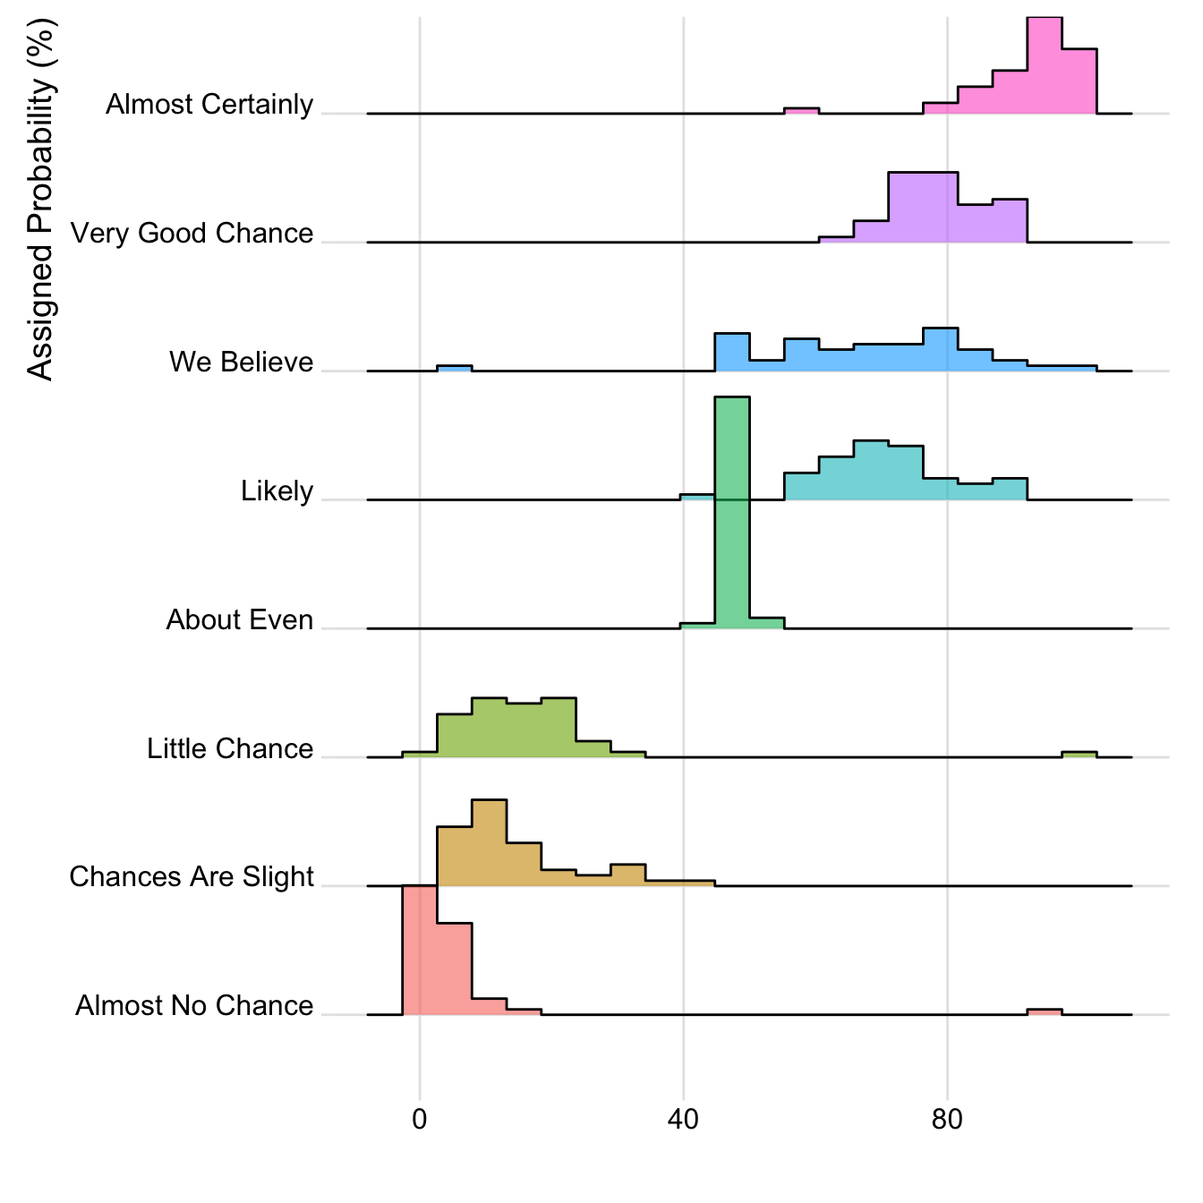
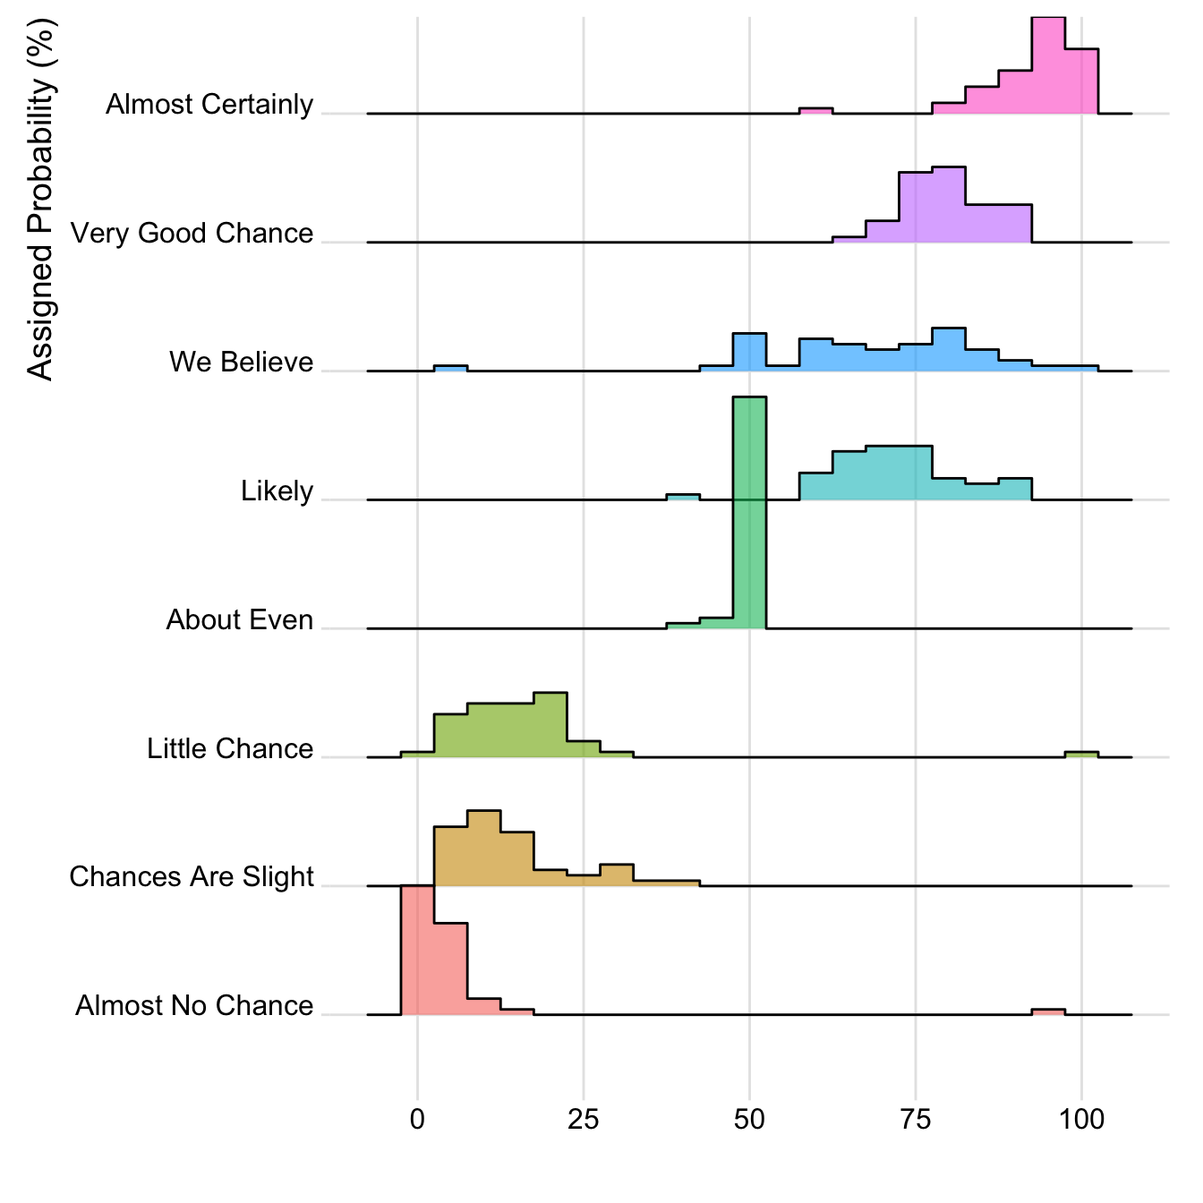
294: Improve breaks and bins for probability chart
For probability, I think breaks of 25 are more natural, and that
revealed that the bin at 50 was 45-50, which was unintuitive, so I set
an offset so that the bins are centered on multiples of 5, instead of
those being the borders.

diff --git a/294-basic-ridgeline-plot.html b/294-basic-ridgeline-plot.html
@@ -162,57 +162,60 @@
 <p><img src="294-basic-ridgeline-plot_files/figure-html/unnamed-chunk-1-1.png" width="100%" /></p>
 </div>
 </div>
-<div class="sourceCode" id="cb1"><pre class="sourceCode r"><code class="sourceCode r"><a class="sourceLine" id="cb1-1" data-line-number="1"><span class="co"># library</span></a>
-<a class="sourceLine" id="cb1-2" data-line-number="2"><span class="kw">library</span>(ggridges)</a>
-<a class="sourceLine" id="cb1-3" data-line-number="3"><span class="kw">library</span>(ggplot2)</a>
-<a class="sourceLine" id="cb1-4" data-line-number="4"> </a>
-<a class="sourceLine" id="cb1-5" data-line-number="5"><span class="co"># Diamonds dataset is provided by R natively</span></a>
-<a class="sourceLine" id="cb1-6" data-line-number="6"><span class="co">#head(diamonds)</span></a>
-<a class="sourceLine" id="cb1-7" data-line-number="7"> </a>
-<a class="sourceLine" id="cb1-8" data-line-number="8"><span class="co"># basic example</span></a>
-<a class="sourceLine" id="cb1-9" data-line-number="9"><span class="kw">ggplot</span>(diamonds, <span class="kw">aes</span>(<span class="dt">x =</span> price, <span class="dt">y =</span> cut, <span class="dt">fill =</span> cut)) <span class="op">+</span></a>
-<a class="sourceLine" id="cb1-10" data-line-number="10"><span class="st">  </span><span class="kw">geom_density_ridges</span>() <span class="op">+</span></a>
-<a class="sourceLine" id="cb1-11" data-line-number="11"><span class="st">  </span><span class="kw">theme_ridges</span>() <span class="op">+</span><span class="st"> </span></a>
-<a class="sourceLine" id="cb1-12" data-line-number="12"><span class="st">  </span><span class="kw">theme</span>(<span class="dt">legend.position =</span> <span class="st">&quot;none&quot;</span>)</a></code></pre></div>
-<h1 id="shape">Shape Variation</h1>
+<div class="sourceCode" id="cb1"><pre class="sourceCode r"><code class="sourceCode r"><span id="cb1-1"><a href="#cb1-1" aria-hidden="true" tabindex="-1"></a><span class="co"># library</span></span>
+<span id="cb1-2"><a href="#cb1-2" aria-hidden="true" tabindex="-1"></a><span class="fu">library</span>(ggridges)</span>
+<span id="cb1-3"><a href="#cb1-3" aria-hidden="true" tabindex="-1"></a><span class="fu">library</span>(ggplot2)</span>
+<span id="cb1-4"><a href="#cb1-4" aria-hidden="true" tabindex="-1"></a> </span>
+<span id="cb1-5"><a href="#cb1-5" aria-hidden="true" tabindex="-1"></a><span class="co"># Diamonds dataset is provided by R natively</span></span>
+<span id="cb1-6"><a href="#cb1-6" aria-hidden="true" tabindex="-1"></a><span class="co">#head(diamonds)</span></span>
+<span id="cb1-7"><a href="#cb1-7" aria-hidden="true" tabindex="-1"></a> </span>
+<span id="cb1-8"><a href="#cb1-8" aria-hidden="true" tabindex="-1"></a><span class="co"># basic example</span></span>
+<span id="cb1-9"><a href="#cb1-9" aria-hidden="true" tabindex="-1"></a><span class="fu">ggplot</span>(diamonds, <span class="fu">aes</span>(<span class="at">x =</span> price, <span class="at">y =</span> cut, <span class="at">fill =</span> cut)) <span class="sc">+</span></span>
+<span id="cb1-10"><a href="#cb1-10" aria-hidden="true" tabindex="-1"></a>  <span class="fu">geom_density_ridges</span>() <span class="sc">+</span></span>
+<span id="cb1-11"><a href="#cb1-11" aria-hidden="true" tabindex="-1"></a>  <span class="fu">theme_ridges</span>() <span class="sc">+</span> </span>
+<span id="cb1-12"><a href="#cb1-12" aria-hidden="true" tabindex="-1"></a>  <span class="fu">theme</span>(<span class="at">legend.position =</span> <span class="st">&quot;none&quot;</span>)</span></code></pre></div>
+<div id="shape" class="section level1">
+<h1>Shape Variation</h1>
 <hr />
 <div class="row">
 <div class="col-md-6 col-sm-12 align-self-center">
-<p>It is possible to represent the density with different aspects. For instance, using <code>stat=&quot;binline&quot;</code> makes a histogram like shape to represent each distribution.</p>
+<p>It is possible to represent the density with different aspects. For instance, using <code>stat="binline"</code> makes a histogram like shape to represent each distribution.</p>
 </div>
 <div class="col-md-6 col-sm-12">
 <p><img src="294-basic-ridgeline-plot_files/figure-html/unnamed-chunk-3-1.png" width="100%" /></p>
 </div>
 </div>
-<div class="sourceCode" id="cb2"><pre class="sourceCode r"><code class="sourceCode r"><a class="sourceLine" id="cb2-1" data-line-number="1"><span class="co"># library</span></a>
-<a class="sourceLine" id="cb2-2" data-line-number="2"><span class="kw">library</span>(ggridges)</a>
-<a class="sourceLine" id="cb2-3" data-line-number="3"><span class="kw">library</span>(ggplot2)</a>
-<a class="sourceLine" id="cb2-4" data-line-number="4"><span class="kw">library</span>(dplyr)</a>
-<a class="sourceLine" id="cb2-5" data-line-number="5"><span class="kw">library</span>(tidyr)</a>
-<a class="sourceLine" id="cb2-6" data-line-number="6"><span class="kw">library</span>(forcats)</a>
-<a class="sourceLine" id="cb2-7" data-line-number="7"></a>
-<a class="sourceLine" id="cb2-8" data-line-number="8"><span class="co"># Load dataset from github</span></a>
-<a class="sourceLine" id="cb2-9" data-line-number="9">data &lt;-<span class="st"> </span><span class="kw">read.table</span>(<span class="st">&quot;https://raw.githubusercontent.com/zonination/perceptions/master/probly.csv&quot;</span>, <span class="dt">header=</span><span class="ot">TRUE</span>, <span class="dt">sep=</span><span class="st">&quot;,&quot;</span>)</a>
-<a class="sourceLine" id="cb2-10" data-line-number="10">data &lt;-<span class="st"> </span>data <span class="op">%&gt;%</span><span class="st"> </span></a>
-<a class="sourceLine" id="cb2-11" data-line-number="11"><span class="st">  </span><span class="kw">gather</span>(<span class="dt">key=</span><span class="st">&quot;text&quot;</span>, <span class="dt">value=</span><span class="st">&quot;value&quot;</span>) <span class="op">%&gt;%</span></a>
-<a class="sourceLine" id="cb2-12" data-line-number="12"><span class="st">  </span><span class="kw">mutate</span>(<span class="dt">text =</span> <span class="kw">gsub</span>(<span class="st">&quot;</span><span class="ch">\\</span><span class="st">.&quot;</span>, <span class="st">&quot; &quot;</span>,text)) <span class="op">%&gt;%</span></a>
-<a class="sourceLine" id="cb2-13" data-line-number="13"><span class="st">  </span><span class="kw">mutate</span>(<span class="dt">value =</span> <span class="kw">round</span>(<span class="kw">as.numeric</span>(value),<span class="dv">0</span>)) <span class="op">%&gt;%</span></a>
-<a class="sourceLine" id="cb2-14" data-line-number="14"><span class="st">  </span><span class="kw">filter</span>(text <span class="op">%in%</span><span class="st"> </span><span class="kw">c</span>(<span class="st">&quot;Almost Certainly&quot;</span>,<span class="st">&quot;Very Good Chance&quot;</span>,<span class="st">&quot;We Believe&quot;</span>,<span class="st">&quot;Likely&quot;</span>,<span class="st">&quot;About Even&quot;</span>, <span class="st">&quot;Little Chance&quot;</span>, <span class="st">&quot;Chances Are Slight&quot;</span>, <span class="st">&quot;Almost No Chance&quot;</span>))</a>
-<a class="sourceLine" id="cb2-15" data-line-number="15"></a>
-<a class="sourceLine" id="cb2-16" data-line-number="16"><span class="co"># Plot</span></a>
-<a class="sourceLine" id="cb2-17" data-line-number="17">data <span class="op">%&gt;%</span></a>
-<a class="sourceLine" id="cb2-18" data-line-number="18"><span class="st">  </span><span class="kw">mutate</span>(<span class="dt">text =</span> <span class="kw">fct_reorder</span>(text, value)) <span class="op">%&gt;%</span></a>
-<a class="sourceLine" id="cb2-19" data-line-number="19"><span class="st">  </span><span class="kw">ggplot</span>( <span class="kw">aes</span>(<span class="dt">y=</span>text, <span class="dt">x=</span>value,  <span class="dt">fill=</span>text)) <span class="op">+</span></a>
-<a class="sourceLine" id="cb2-20" data-line-number="20"><span class="st">    </span><span class="kw">geom_density_ridges</span>(<span class="dt">alpha=</span><span class="fl">0.6</span>, <span class="dt">stat=</span><span class="st">&quot;binline&quot;</span>, <span class="dt">bins=</span><span class="dv">20</span>) <span class="op">+</span></a>
-<a class="sourceLine" id="cb2-21" data-line-number="21"><span class="st">    </span><span class="kw">theme_ridges</span>() <span class="op">+</span></a>
-<a class="sourceLine" id="cb2-22" data-line-number="22"><span class="st">    </span><span class="kw">theme</span>(</a>
-<a class="sourceLine" id="cb2-23" data-line-number="23">      <span class="dt">legend.position=</span><span class="st">&quot;none&quot;</span>,</a>
-<a class="sourceLine" id="cb2-24" data-line-number="24">      <span class="dt">panel.spacing =</span> <span class="kw">unit</span>(<span class="fl">0.1</span>, <span class="st">&quot;lines&quot;</span>),</a>
-<a class="sourceLine" id="cb2-25" data-line-number="25">      <span class="dt">strip.text.x =</span> <span class="kw">element_text</span>(<span class="dt">size =</span> <span class="dv">8</span>)</a>
-<a class="sourceLine" id="cb2-26" data-line-number="26">    ) <span class="op">+</span></a>
-<a class="sourceLine" id="cb2-27" data-line-number="27"><span class="st">    </span><span class="kw">xlab</span>(<span class="st">&quot;&quot;</span>) <span class="op">+</span></a>
-<a class="sourceLine" id="cb2-28" data-line-number="28"><span class="st">    </span><span class="kw">ylab</span>(<span class="st">&quot;Assigned Probability (%)&quot;</span>)</a></code></pre></div>
-<h1 id="color">Color relative to numeric value</h1>
+<div class="sourceCode" id="cb2"><pre class="sourceCode r"><code class="sourceCode r"><span id="cb2-1"><a href="#cb2-1" aria-hidden="true" tabindex="-1"></a><span class="co"># library</span></span>
+<span id="cb2-2"><a href="#cb2-2" aria-hidden="true" tabindex="-1"></a><span class="fu">library</span>(ggridges)</span>
+<span id="cb2-3"><a href="#cb2-3" aria-hidden="true" tabindex="-1"></a><span class="fu">library</span>(ggplot2)</span>
+<span id="cb2-4"><a href="#cb2-4" aria-hidden="true" tabindex="-1"></a><span class="fu">library</span>(dplyr)</span>
+<span id="cb2-5"><a href="#cb2-5" aria-hidden="true" tabindex="-1"></a><span class="fu">library</span>(tidyr)</span>
+<span id="cb2-6"><a href="#cb2-6" aria-hidden="true" tabindex="-1"></a><span class="fu">library</span>(forcats)</span>
+<span id="cb2-7"><a href="#cb2-7" aria-hidden="true" tabindex="-1"></a></span>
+<span id="cb2-8"><a href="#cb2-8" aria-hidden="true" tabindex="-1"></a><span class="co"># Load dataset from github</span></span>
+<span id="cb2-9"><a href="#cb2-9" aria-hidden="true" tabindex="-1"></a>data <span class="ot">&lt;-</span> <span class="fu">read.table</span>(<span class="st">&quot;https://raw.githubusercontent.com/zonination/perceptions/master/probly.csv&quot;</span>, <span class="at">header=</span><span class="cn">TRUE</span>, <span class="at">sep=</span><span class="st">&quot;,&quot;</span>)</span>
+<span id="cb2-10"><a href="#cb2-10" aria-hidden="true" tabindex="-1"></a>data <span class="ot">&lt;-</span> data <span class="sc">%&gt;%</span> </span>
+<span id="cb2-11"><a href="#cb2-11" aria-hidden="true" tabindex="-1"></a>  <span class="fu">gather</span>(<span class="at">key=</span><span class="st">&quot;text&quot;</span>, <span class="at">value=</span><span class="st">&quot;value&quot;</span>) <span class="sc">%&gt;%</span></span>
+<span id="cb2-12"><a href="#cb2-12" aria-hidden="true" tabindex="-1"></a>  <span class="fu">mutate</span>(<span class="at">text =</span> <span class="fu">gsub</span>(<span class="st">&quot;</span><span class="sc">\\</span><span class="st">.&quot;</span>, <span class="st">&quot; &quot;</span>,text)) <span class="sc">%&gt;%</span></span>
+<span id="cb2-13"><a href="#cb2-13" aria-hidden="true" tabindex="-1"></a>  <span class="fu">mutate</span>(<span class="at">value =</span> <span class="fu">round</span>(<span class="fu">as.numeric</span>(value),<span class="dv">0</span>)) <span class="sc">%&gt;%</span></span>
+<span id="cb2-14"><a href="#cb2-14" aria-hidden="true" tabindex="-1"></a>  <span class="fu">filter</span>(text <span class="sc">%in%</span> <span class="fu">c</span>(<span class="st">&quot;Almost Certainly&quot;</span>,<span class="st">&quot;Very Good Chance&quot;</span>,<span class="st">&quot;We Believe&quot;</span>,<span class="st">&quot;Likely&quot;</span>,<span class="st">&quot;About Even&quot;</span>, <span class="st">&quot;Little Chance&quot;</span>, <span class="st">&quot;Chances Are Slight&quot;</span>, <span class="st">&quot;Almost No Chance&quot;</span>))</span>
+<span id="cb2-15"><a href="#cb2-15" aria-hidden="true" tabindex="-1"></a></span>
+<span id="cb2-16"><a href="#cb2-16" aria-hidden="true" tabindex="-1"></a><span class="co"># Plot</span></span>
+<span id="cb2-17"><a href="#cb2-17" aria-hidden="true" tabindex="-1"></a>data <span class="sc">%&gt;%</span></span>
+<span id="cb2-18"><a href="#cb2-18" aria-hidden="true" tabindex="-1"></a>  <span class="fu">mutate</span>(<span class="at">text =</span> <span class="fu">fct_reorder</span>(text, value)) <span class="sc">%&gt;%</span></span>
+<span id="cb2-19"><a href="#cb2-19" aria-hidden="true" tabindex="-1"></a>  <span class="fu">ggplot</span>( <span class="fu">aes</span>(<span class="at">y=</span>text, <span class="at">x=</span>value,  <span class="at">fill=</span>text)) <span class="sc">+</span></span>
+<span id="cb2-20"><a href="#cb2-20" aria-hidden="true" tabindex="-1"></a>    <span class="fu">geom_density_ridges</span>(<span class="at">alpha=</span><span class="fl">0.6</span>, <span class="at">stat=</span><span class="st">&quot;binline&quot;</span>, <span class="at">bins=</span><span class="dv">20</span>) <span class="sc">+</span></span>
+<span id="cb2-21"><a href="#cb2-21" aria-hidden="true" tabindex="-1"></a>    <span class="fu">theme_ridges</span>() <span class="sc">+</span></span>
+<span id="cb2-22"><a href="#cb2-22" aria-hidden="true" tabindex="-1"></a>    <span class="fu">theme</span>(</span>
+<span id="cb2-23"><a href="#cb2-23" aria-hidden="true" tabindex="-1"></a>      <span class="at">legend.position=</span><span class="st">&quot;none&quot;</span>,</span>
+<span id="cb2-24"><a href="#cb2-24" aria-hidden="true" tabindex="-1"></a>      <span class="at">panel.spacing =</span> <span class="fu">unit</span>(<span class="fl">0.1</span>, <span class="st">&quot;lines&quot;</span>),</span>
+<span id="cb2-25"><a href="#cb2-25" aria-hidden="true" tabindex="-1"></a>      <span class="at">strip.text.x =</span> <span class="fu">element_text</span>(<span class="at">size =</span> <span class="dv">8</span>)</span>
+<span id="cb2-26"><a href="#cb2-26" aria-hidden="true" tabindex="-1"></a>    ) <span class="sc">+</span></span>
+<span id="cb2-27"><a href="#cb2-27" aria-hidden="true" tabindex="-1"></a>    <span class="fu">xlab</span>(<span class="st">&quot;&quot;</span>) <span class="sc">+</span></span>
+<span id="cb2-28"><a href="#cb2-28" aria-hidden="true" tabindex="-1"></a>    <span class="fu">ylab</span>(<span class="st">&quot;Assigned Probability (%)&quot;</span>)</span></code></pre></div>
+</div>
+<div id="color" class="section level1">
+<h1>Color relative to numeric value</h1>
 <hr />
 <div class="row">
 <div class="col-md-6 col-sm-12 align-self-center">
@@ -222,24 +225,25 @@
 <p><img src="294-basic-ridgeline-plot_files/figure-html/unnamed-chunk-5-1.png" width="100%" /></p>
 </div>
 </div>
-<div class="sourceCode" id="cb3"><pre class="sourceCode r"><code class="sourceCode r"><a class="sourceLine" id="cb3-1" data-line-number="1"><span class="co"># library</span></a>
-<a class="sourceLine" id="cb3-2" data-line-number="2"><span class="kw">library</span>(ggridges)</a>
-<a class="sourceLine" id="cb3-3" data-line-number="3"><span class="kw">library</span>(ggplot2)</a>
-<a class="sourceLine" id="cb3-4" data-line-number="4"><span class="kw">library</span>(viridis)</a>
-<a class="sourceLine" id="cb3-5" data-line-number="5"><span class="kw">library</span>(hrbrthemes)</a>
-<a class="sourceLine" id="cb3-6" data-line-number="6"></a>
-<a class="sourceLine" id="cb3-7" data-line-number="7"><span class="co"># Plot</span></a>
-<a class="sourceLine" id="cb3-8" data-line-number="8"><span class="kw">ggplot</span>(lincoln_weather, <span class="kw">aes</span>(<span class="dt">x =</span> <span class="st">`</span><span class="dt">Mean Temperature [F]</span><span class="st">`</span>, <span class="dt">y =</span> <span class="st">`</span><span class="dt">Month</span><span class="st">`</span>, <span class="dt">fill =</span> ..x..)) <span class="op">+</span></a>
-<a class="sourceLine" id="cb3-9" data-line-number="9"><span class="st">  </span><span class="kw">geom_density_ridges_gradient</span>(<span class="dt">scale =</span> <span class="dv">3</span>, <span class="dt">rel_min_height =</span> <span class="fl">0.01</span>) <span class="op">+</span></a>
-<a class="sourceLine" id="cb3-10" data-line-number="10"><span class="st">  </span><span class="kw">scale_fill_viridis</span>(<span class="dt">name =</span> <span class="st">&quot;Temp. [F]&quot;</span>, <span class="dt">option =</span> <span class="st">&quot;C&quot;</span>) <span class="op">+</span></a>
-<a class="sourceLine" id="cb3-11" data-line-number="11"><span class="st">  </span><span class="kw">labs</span>(<span class="dt">title =</span> <span class="st">&#39;Temperatures in Lincoln NE in 2016&#39;</span>) <span class="op">+</span></a>
-<a class="sourceLine" id="cb3-12" data-line-number="12"><span class="st">  </span><span class="kw">theme_ipsum</span>() <span class="op">+</span></a>
-<a class="sourceLine" id="cb3-13" data-line-number="13"><span class="st">    </span><span class="kw">theme</span>(</a>
-<a class="sourceLine" id="cb3-14" data-line-number="14">      <span class="dt">legend.position=</span><span class="st">&quot;none&quot;</span>,</a>
-<a class="sourceLine" id="cb3-15" data-line-number="15">      <span class="dt">panel.spacing =</span> <span class="kw">unit</span>(<span class="fl">0.1</span>, <span class="st">&quot;lines&quot;</span>),</a>
-<a class="sourceLine" id="cb3-16" data-line-number="16">      <span class="dt">strip.text.x =</span> <span class="kw">element_text</span>(<span class="dt">size =</span> <span class="dv">8</span>)</a>
-<a class="sourceLine" id="cb3-17" data-line-number="17">    )</a></code></pre></div>
+<div class="sourceCode" id="cb3"><pre class="sourceCode r"><code class="sourceCode r"><span id="cb3-1"><a href="#cb3-1" aria-hidden="true" tabindex="-1"></a><span class="co"># library</span></span>
+<span id="cb3-2"><a href="#cb3-2" aria-hidden="true" tabindex="-1"></a><span class="fu">library</span>(ggridges)</span>
+<span id="cb3-3"><a href="#cb3-3" aria-hidden="true" tabindex="-1"></a><span class="fu">library</span>(ggplot2)</span>
+<span id="cb3-4"><a href="#cb3-4" aria-hidden="true" tabindex="-1"></a><span class="fu">library</span>(viridis)</span>
+<span id="cb3-5"><a href="#cb3-5" aria-hidden="true" tabindex="-1"></a><span class="fu">library</span>(hrbrthemes)</span>
+<span id="cb3-6"><a href="#cb3-6" aria-hidden="true" tabindex="-1"></a></span>
+<span id="cb3-7"><a href="#cb3-7" aria-hidden="true" tabindex="-1"></a><span class="co"># Plot</span></span>
+<span id="cb3-8"><a href="#cb3-8" aria-hidden="true" tabindex="-1"></a><span class="fu">ggplot</span>(lincoln_weather, <span class="fu">aes</span>(<span class="at">x =</span> <span class="st">`</span><span class="at">Mean Temperature [F]</span><span class="st">`</span>, <span class="at">y =</span> <span class="st">`</span><span class="at">Month</span><span class="st">`</span>, <span class="at">fill =</span> ..x..)) <span class="sc">+</span></span>
+<span id="cb3-9"><a href="#cb3-9" aria-hidden="true" tabindex="-1"></a>  <span class="fu">geom_density_ridges_gradient</span>(<span class="at">scale =</span> <span class="dv">3</span>, <span class="at">rel_min_height =</span> <span class="fl">0.01</span>) <span class="sc">+</span></span>
+<span id="cb3-10"><a href="#cb3-10" aria-hidden="true" tabindex="-1"></a>  <span class="fu">scale_fill_viridis</span>(<span class="at">name =</span> <span class="st">&quot;Temp. [F]&quot;</span>, <span class="at">option =</span> <span class="st">&quot;C&quot;</span>) <span class="sc">+</span></span>
+<span id="cb3-11"><a href="#cb3-11" aria-hidden="true" tabindex="-1"></a>  <span class="fu">labs</span>(<span class="at">title =</span> <span class="st">&#39;Temperatures in Lincoln NE in 2016&#39;</span>) <span class="sc">+</span></span>
+<span id="cb3-12"><a href="#cb3-12" aria-hidden="true" tabindex="-1"></a>  <span class="fu">theme_ipsum</span>() <span class="sc">+</span></span>
+<span id="cb3-13"><a href="#cb3-13" aria-hidden="true" tabindex="-1"></a>    <span class="fu">theme</span>(</span>
+<span id="cb3-14"><a href="#cb3-14" aria-hidden="true" tabindex="-1"></a>      <span class="at">legend.position=</span><span class="st">&quot;none&quot;</span>,</span>
+<span id="cb3-15"><a href="#cb3-15" aria-hidden="true" tabindex="-1"></a>      <span class="at">panel.spacing =</span> <span class="fu">unit</span>(<span class="fl">0.1</span>, <span class="st">&quot;lines&quot;</span>),</span>
+<span id="cb3-16"><a href="#cb3-16" aria-hidden="true" tabindex="-1"></a>      <span class="at">strip.text.x =</span> <span class="fu">element_text</span>(<span class="at">size =</span> <span class="dv">8</span>)</span>
+<span id="cb3-17"><a href="#cb3-17" aria-hidden="true" tabindex="-1"></a>    )</span></code></pre></div>
 <!-- Close container -->
+</div>
 </div>
 <!-- ============================ RELATED SECTION ============================ -->
 <section class="bg-light" id="portfolio_landing" style="padding-top: 30px; padding-bottom: 30px; margin-top: 100px;">

diff --git a/libs/navigation-1.1/codefolding.js b/libs/navigation-1.1/codefolding.js
@@ -17,26 +17,26 @@ window.initializeCodeFolding = function(show) {
   var currentIndex = 1;
 
   // select all R code blocks
-  var rCodeBlocks = $('pre.r, pre.python, pre.bash, pre.sql, pre.cpp, pre.stan, pre.julia');
+  var rCodeBlocks = $('pre.r, pre.python, pre.bash, pre.sql, pre.cpp, pre.stan, pre.julia, pre.foldable');
   rCodeBlocks.each(function() {
 
     // create a collapsable div to wrap the code in
     var div = $('<div class="collapse r-code-collapse"></div>');
-    if (show)
-      div.addClass('in');
+    var showThis = (show || $(this).hasClass('fold-show')) && !$(this).hasClass('fold-hide');
+    if (showThis) div.addClass('in');
     var id = 'rcode-643E0F36' + currentIndex++;
     div.attr('id', id);
     $(this).before(div);
     $(this).detach().appendTo(div);
 
     // add a show code button right above
-    var showCodeText = $('<span>' + (show ? 'Hide' : 'Code') + '</span>');
+    var showCodeText = $('<span>' + (showThis ? 'Hide' : 'Code') + '</span>');
     var showCodeButton = $('<button type="button" class="btn btn-default btn-xs code-folding-btn pull-right"></button>');
     showCodeButton.append(showCodeText);
     showCodeButton
         .attr('data-toggle', 'collapse')
         .attr('data-target', '#' + id)
-        .attr('aria-expanded', show)
+        .attr('aria-expanded', showThis)
         .attr('aria-controls', id);
 
     var buttonRow = $('<div class="row"></div>');

diff --git a/libs/tocify-1.9.1/jquery.tocify.css b/libs/tocify-1.9.1/jquery.tocify.css
@@ -11,8 +11,6 @@
     margin-left: 2%;
     position: fixed;
     border: 1px solid #ccc;
-    webkit-border-radius: 6px;
-    moz-border-radius: 6px;
     border-radius: 6px;
 }
 
@@ -45,10 +43,14 @@
 .tocify-subheader .tocify-subheader {
     text-indent: 30px;
 }
-
-/* Further indents third level subheader elements. You can continue this pattern if you have more nested elements. */
 .tocify-subheader .tocify-subheader .tocify-subheader {
     text-indent: 40px;
+}
+.tocify-subheader .tocify-subheader .tocify-subheader .tocify-subheader {
+    text-indent: 50px;
+}
+.tocify-subheader .tocify-subheader .tocify-subheader .tocify-subheader .tocify-subheader {
+    text-indent: 60px;
 }
 
 /* Twitter Bootstrap Override Style */

diff --git a/libs/header-attrs-2.6/header-attrs.js b/libs/header-attrs-2.6/header-attrs.js
@@ -1,0 +1,12 @@
+// Pandoc 2.9 adds attributes on both header and div. We remove the former (to
+// be compatible with the behavior of Pandoc < 2.8).
+document.addEventListener('DOMContentLoaded', function(e) {
+  var hs = document.querySelectorAll("div.section[class*='level'] > :first-child");
+  var i, h, a;
+  for (i = 0; i < hs.length; i++) {
+    h = hs[i];
+    if (!/^h[1-6]$/i.test(h.tagName)) continue;  // it should be a header h1-h6
+    a = h.attributes;
+    while (a.length > 0) h.removeAttribute(a[0].name);
+  }
+});

diff --git a/libs/tocify-1.9.1/jquery.tocify.js b/libs/tocify-1.9.1/jquery.tocify.js
@@ -386,13 +386,13 @@
 
           item.append($("<a/>", {
 
-            "text": self.text()
+            "html": self.html()
 
           }));
 
         } else {
 
-          item.text(self.text());
+          item.html(self.html());
 
         }
 
